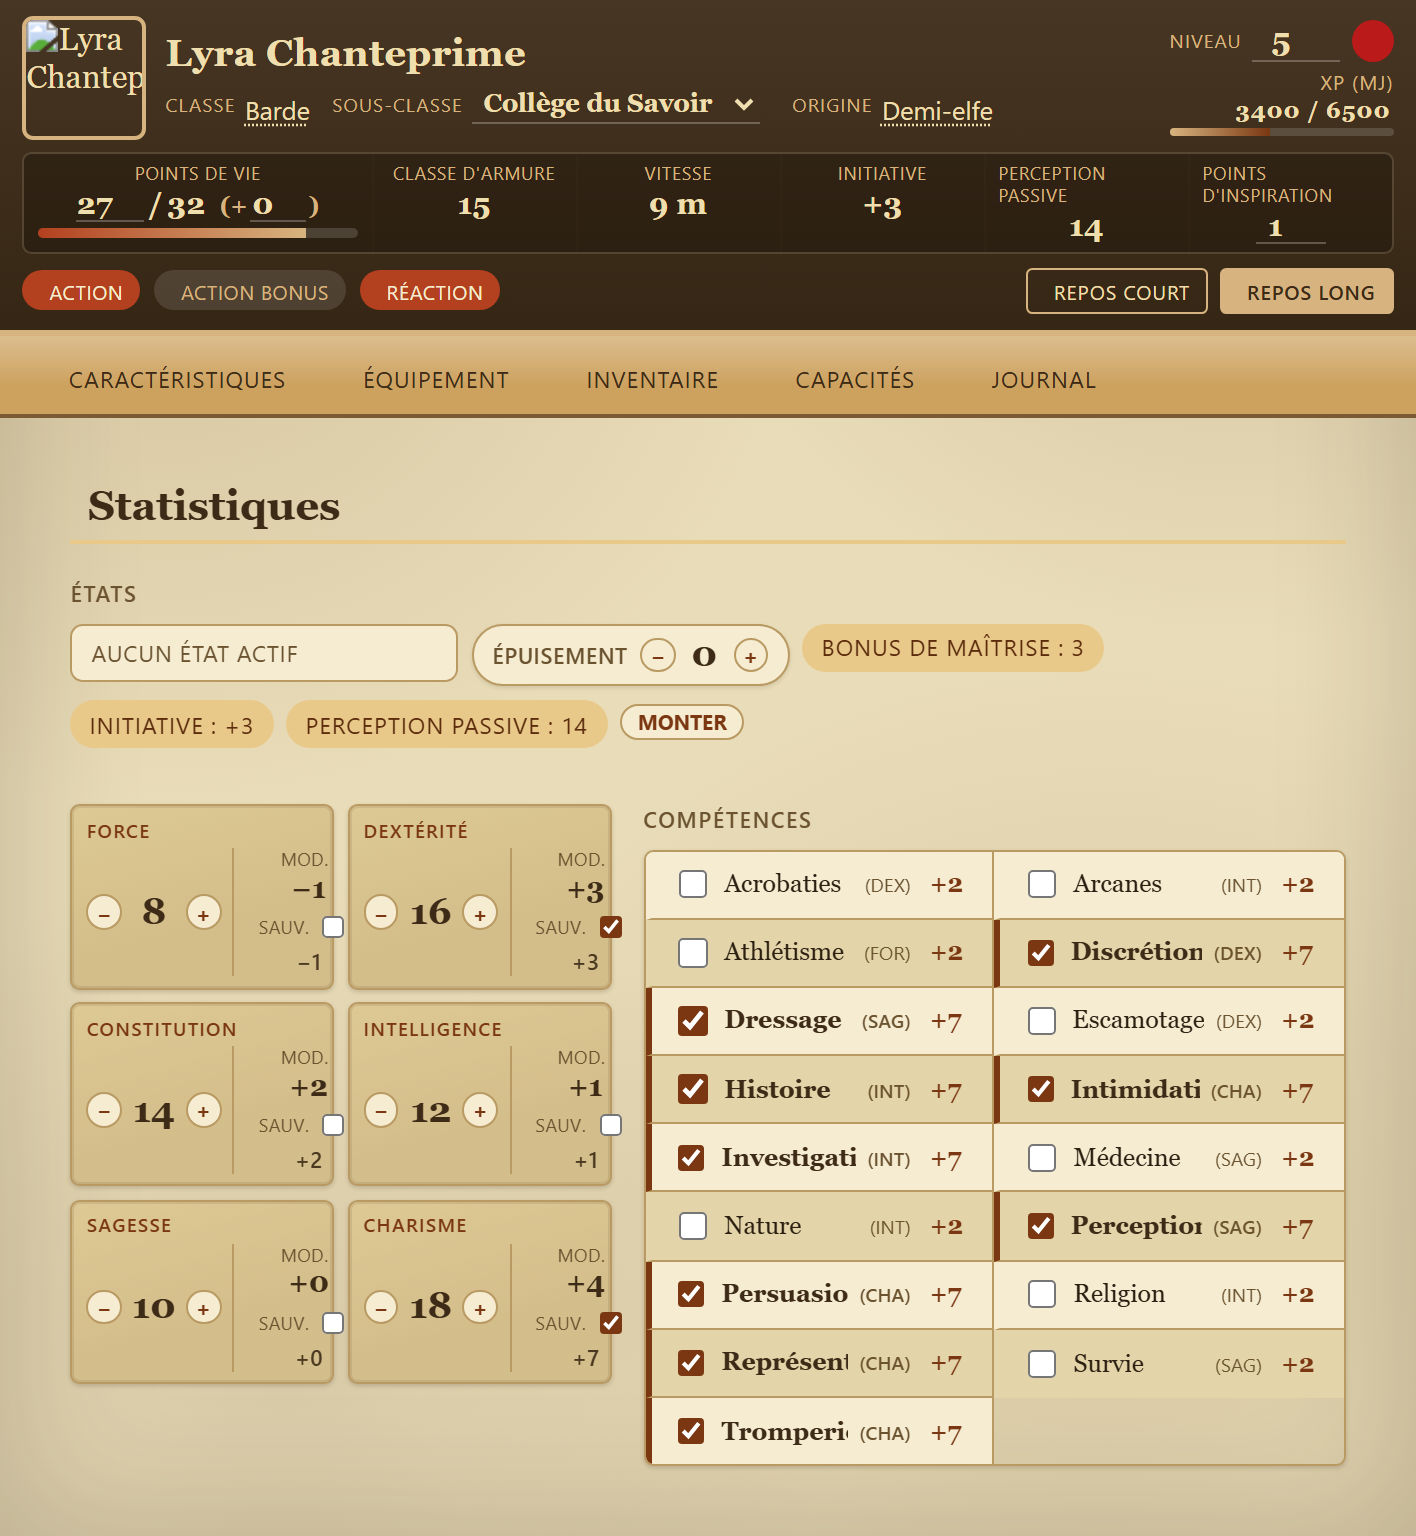
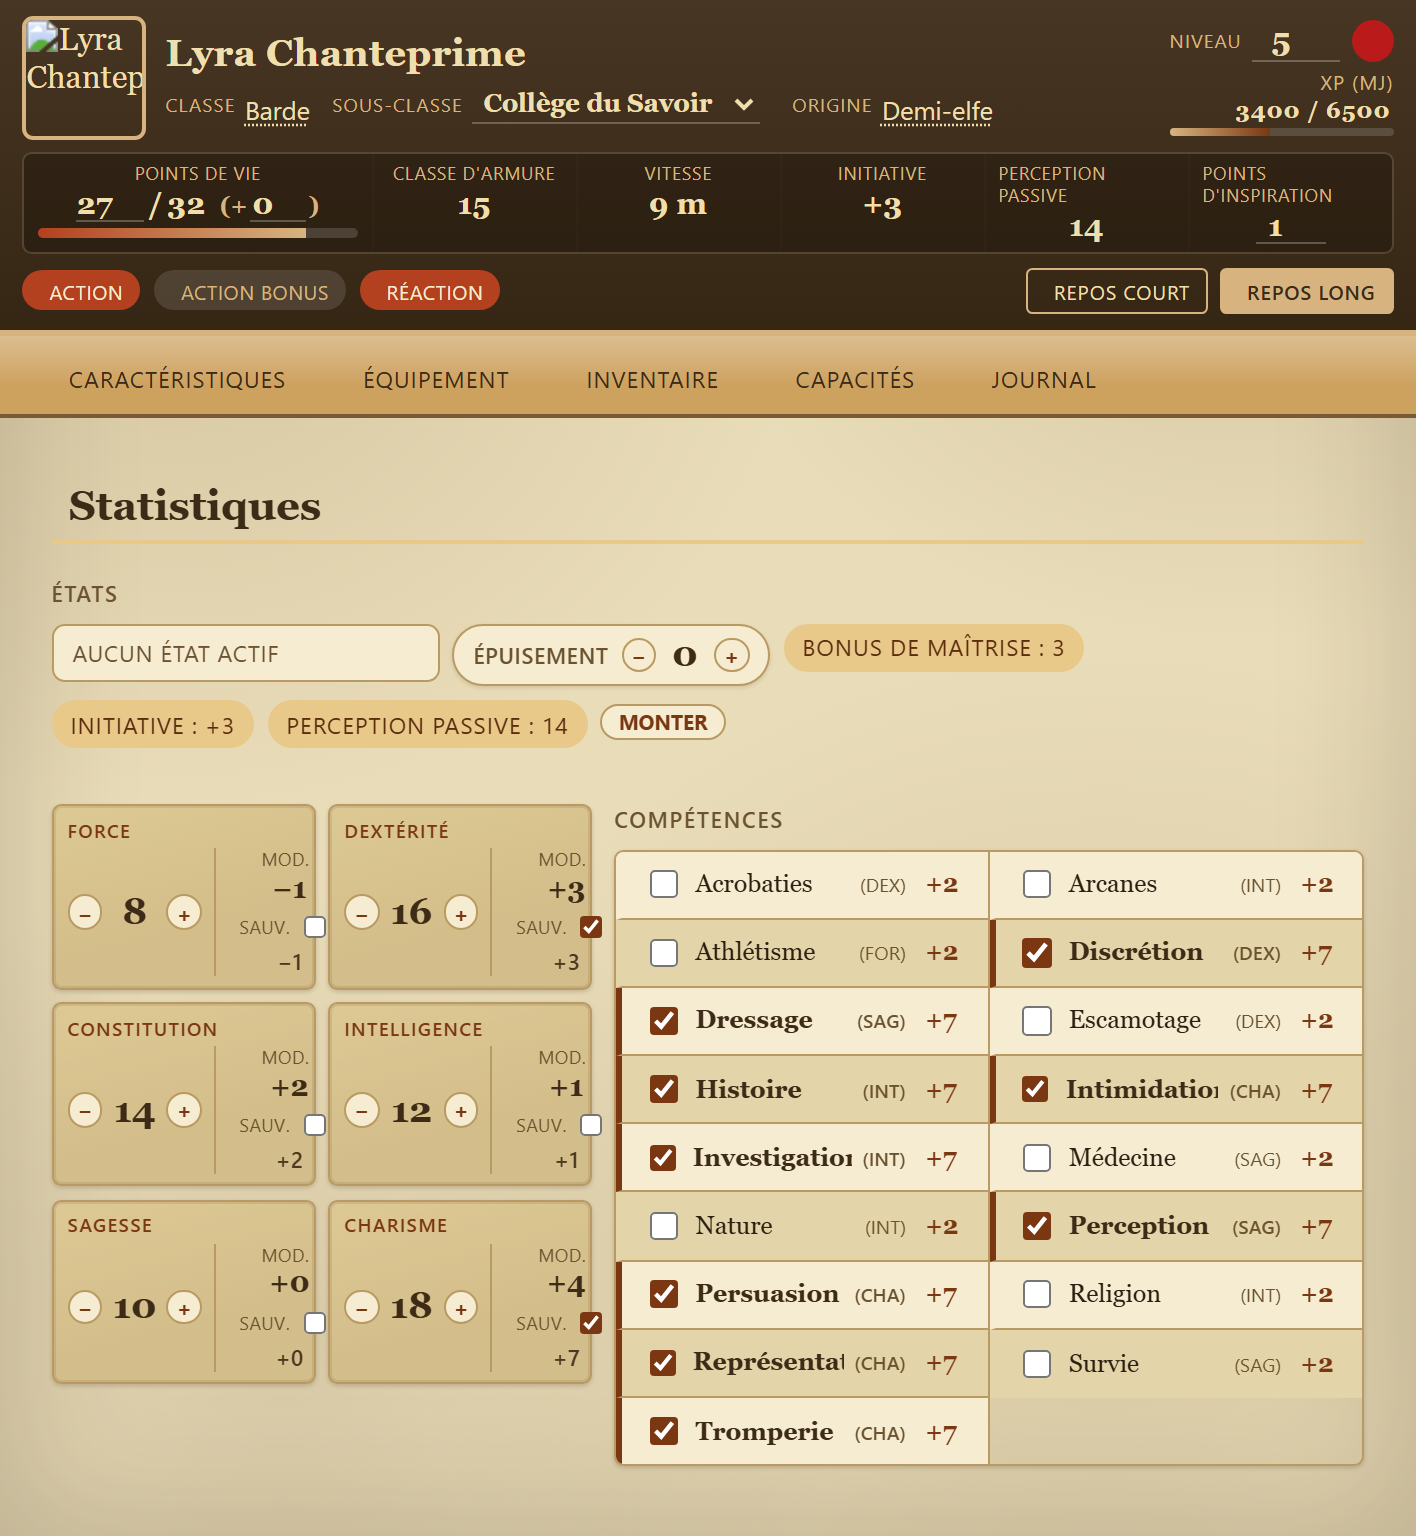
fix: marges laterales reduites sur l'onglet Caracteristiques
Retour utilisateur : recuperer de la largeur pour les cases de
caracteristiques et la liste de competences. `.tab.stats` passe a 0.5rem de
gouttiere gauche/droite (au lieu de 1.1rem) et `.stats-columns` resserre son
`gap` a 0.7rem. Scope a ce seul onglet : les autres gardent la gouttiere
d'origine.

Claude-Session: https://claude.ai/code/session_019qW42amh4ndw7THLq7hEVy

diff --git a/styles/dnd-custom-ai.css b/styles/dnd-custom-ai.css
@@ -852,6 +852,14 @@
   padding: 1rem 1.1rem 1.4rem;
 }
 
+/* Onglet Caractéristiques : marges latérales réduites (retour utilisateur — récupérer de la
+   largeur pour les cases de caractéristiques et la liste de compétences sur une fenêtre de
+   708px). Ne touche que cet onglet ; les autres gardent la gouttière d'origine. */
+.dnd-custom-ai .tab.stats {
+  padding-left: 0.5rem;
+  padding-right: 0.5rem;
+}
+
 .dnd-custom-ai .tab-title {
   display: flex;
   align-items: center;
@@ -1013,7 +1021,7 @@
 .dnd-custom-ai .stats-columns {
   display: flex;
   align-items: flex-start;
-  gap: 1rem;
+  gap: 0.7rem;
 }
 
 /* Grille 2 colonnes x 3 lignes plutôt qu'une pile verticale à 1 colonne (retour de test :
